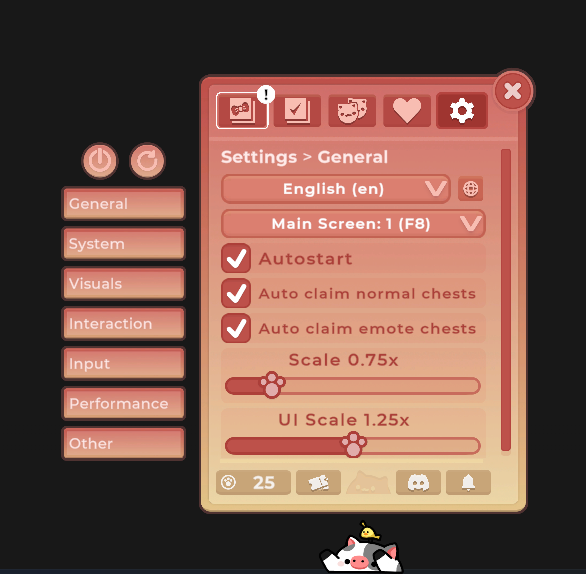
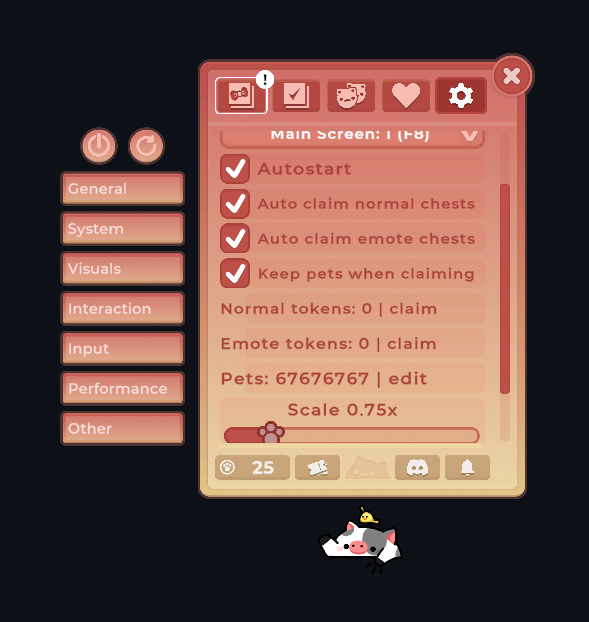
Refresh settings screenshot and step-by-step instructions

diff --git a/README.md b/README.md
@@ -1,72 +1,121 @@
 # BongoClaim ฅ
 
-**Auto-claim normal and emote chests, open stored chest tokens, and control your pet score in Bongo Cat.** Install the Windows helper once, then launch Bongo Cat normally through Steam.
+**Auto-claim normal and emote chests, open stored tokens, and control your pet score in Bongo Cat.** Install once, then play normally through Steam. BongoClaim does not need to stay open.
 
-[Download the portable ZIP](https://github.com/NH4OH-35/bongo-claim/releases/latest) · [Report a problem](https://github.com/NH4OH-35/bongo-claim/issues)
+[Download BongoClaim v1.2.0 for Windows](https://github.com/NH4OH-35/bongo-claim/releases/download/v1.2.0/BongoClaim-v1.2.0-windows.zip) · [All releases](https://github.com/NH4OH-35/bongo-claim/releases) · [Report a problem](https://github.com/NH4OH-35/bongo-claim/issues)
 
-![Bongo Cat Settings > General showing normal and emote auto-claim enabled](docs/game-settings.png)
+![BongoClaim v1.2 in Bongo Cat General settings: normal and emote auto-claim, Keep pets, token claim buttons, and pet score editor](docs/game-settings.png)
 
-The screenshot shows the v1.1 auto-claim switches. v1.2 adds stored-token buttons, **Keep pets when claiming**, and **Edit pet score** in the same General panel.
+The screenshot shows the current **v1.2** controls. Your token counts and pet score will differ. **Keep pets when claiming** is checked in this example; it starts **off** on a fresh installation.
 
-## Everyday use
+## 1. Install or upgrade
 
-**Already installed? Just start Bongo Cat normally from Steam.** All controls run inside the game; you can leave `BongoClaim.exe` closed. Keep Bongo Cat and Steam running. Normal and emote auto-claim use their existing timer. By default, claims still cost pets.
+**Already using v1.2 and seeing these controls? Skip to step 2.** This documentation update does not require reinstalling the game patch.
 
-Open the game menu with **Escape** or **M**, click the **gear**, then choose **General**. Check **Auto claim normal chests** or **Auto claim emote chests** to enable that type; uncheck it to pause. Each choice takes effect while playing and saves for the next launch. Both start enabled. A request already sent to the server can still finish after switching off.
+1. Download **BongoClaim-v1.2.0-windows.zip** using the link above. Do not download GitHub's **Source code** ZIP for installation.
+2. Right-click the downloaded ZIP → **Extract All…** → **Extract**. Open the extracted folder; do not run the app from inside the ZIP.
+3. Exit **Bongo Cat** normally. Leave Steam available for launching the game later.
+4. Double-click **BongoClaim.exe**. Keep **Mono.Cecil.dll** in the same folder. **BongoClaim.Cli.exe** is optional and is not needed for normal use.
+5. Check the game folder shown in BongoClaim. If it is empty or wrong, click **Browse…** and select the folder containing **BongoCat.exe**. Select the **folder**, not the EXE file, **BongoCat_Data**, or **Managed**. You can find it through Steam → Bongo Cat → **Properties → Installed Files → Browse**.
+6. The helper checks the build automatically. You can click **Check build** to check again. If the build is supported, click **Install auto claim →**. Existing v1.0/v1.1 installations show **Upgrade controls →** instead.
+7. Wait for the success message. The button changes to **Controls installed**. Close BongoClaim and launch **Bongo Cat from Steam**.
 
-For quick control with the game menu open, press **F7** for normal or **F9** for emote. **Shift + F9** also works for emote if plain F9 is intercepted or missed. Shortcuts work only while the game is focused and no text field is active. They update the same saved switches and checkmarks.
+The installer backs up your exact original game DLL before patching it. Upgrades use that verified original backup and preserve your saved normal/emote switch settings.
 
-Other menu shortcuts: **F5** toggles Keep pets, **F10** edits your pet score, **F11** opens one owned normal token, and **Insert** opens one owned emote token. Toggle and token shortcuts pause while you are editing a score.
+## 2. Open the controls
 
-### Stored tokens and manual claims
+1. Start Bongo Cat normally through Steam.
+2. Focus the game and press **Escape** or **M** to open its menu.
+3. Click the **gear** tab, then **General**.
+4. Scroll down inside the panel until you see the rows shown in the screenshot.
 
-In **Settings → General**, the **Normal tokens: N | claim** and **Emote tokens: N | claim** rows show quantities from your Steam inventory. Click a row to open **one** owned token of that type. After it finishes, click again for another. These buttons work during the local countdown and independently of the auto-claim switches.
+You only run BongoClaim again to install, upgrade, check compatibility, or restore the original game. Leave **Steam and Bongo Cat running** for auto-claim to work.
 
-Empty or loading rows cannot be clicked. The game must have the other exchange inputs it requires, sufficient pets unless **Keep pets** is enabled, and no pending request. Steam still decides whether the exchange succeeds. The buttons do not create tokens or change their server drop schedule. The game's normal successful or failed claim cooldown is retained.
+## 3. Turn automatic claims on or off
 
-### Keep pets when claiming
+1. Check **Auto claim normal chests** to enable automatic normal-chest claims; uncheck it to pause them.
+2. Check or uncheck **Auto claim emote chests** independently.
+3. Close the menu and continue playing. Your choices take effect immediately and save for the next launch.
 
-Enable **Keep pets when claiming** to open your normal and emote chests without deducting pets, including claims made through the original chest buttons. It starts **off** and saves separately from both auto-claim switches. Turning it off restores the normal pets price. Owned inventory tokens are consumed either way. A request already in progress uses the price choice captured when it started; gifting keeps its original spending rules.
+| Setting | Fresh-install default | Effect |
+| --- | --- | --- |
+| Auto claim normal chests | On | Claims an eligible normal chest when the game's timer is ready. |
+| Auto claim emote chests | On | Claims an eligible emote chest when the game's timer is ready. |
+| Keep pets when claiming | Off | When enabled, normal and emote chest claims do not deduct available pets. |
 
-### Edit available pet score
+Saved preferences take precedence over these defaults. A request already sent can finish after you disable its switch. Automatic claims use the game's existing timer and exchange requirements; claims cost pets while **Keep pets when claiming** is off.
 
-Click **Pets: N | edit** or press **F10** with the game menu open. Type the desired nonnegative whole number using the number row or numpad, then press **Enter** to save. **Backspace** deletes; **Escape** cancels. Clicking the editor again or closing the menu also cancels.
+## 4. Claim stored chest tokens
 
-This changes your **available pets** and saves through the game's Steam stats API. It preserves lifetime achievement taps and total pets previously spent. Values that would overflow the game's counter are rejected; the maximum is `2,147,483,646 − total spent`. Score editing does not grant inventory tokens or server eligibility. Restoring the game DLL removes these controls; it does not undo a score you explicitly saved.
+1. Open **gear → General** and find **Normal tokens: N | claim** or **Emote tokens: N | claim**.
+2. If the number is greater than **0**, click the row for the chest type you want.
+3. Wait for the game and Steam to finish that claim. Each successful claim consumes **one owned token**.
+4. Click again to open another token, if you still have one.
 
-## First-time installation
+These buttons can open stored tokens while the local 30-minute countdown is still running. They work independently of the auto-claim switches. A successful manual claim starts the game's normal cooldown again.
 
-1. Download `BongoClaim-v1.2.0-windows.zip` from Releases and **extract the whole ZIP**.
-2. Exit Bongo Cat normally.
-3. Open `BongoClaim.exe`. Keep `Mono.Cecil.dll` beside it.
-4. The app finds your running game or Steam library. If needed, browse to the folder containing `BongoCat.exe`.
-5. Click **Check build**, then **Install auto claim** (or **Upgrade controls** for v1.0/v1.1).
-6. Start Bongo Cat from Steam. The patch works inside the game; this helper does not need to stay open.
+**“0 | claim” means you currently have no owned tokens of that type to open.** The row is disabled. “Loading” means Steam inventory is not ready yet. The screenshot's zero counts are an example, not a target value.
 
-![BongoClaim desktop installer and restore controls](docs/desktop.png)
+Claims also require the game's other exchange inputs, enough pets unless **Keep pets** is enabled, and no pending request. Steam decides whether an exchange succeeds. These controls do not create tokens or change Steam's drop schedule; editing your pet score does not create tokens either.
 
-Changes to the saved switches do not require reinstalling or keeping BongoClaim open. Upgrades rebuild the patch from your verified original backup and retain that same original for restoration. Existing normal and emote preferences are preserved.
+## 5. Stop chest claims deducting pets
 
-Auto-claim calls the game's existing `ShopItem.Buy()` when a chest is ready. Manual stored-token claims also call `Buy()`, after checking owned inventory inputs and pending-request guards. The optional **Keep pets** switch changes the captured local price flag; the optional score editor changes only the available-pets counter through the game. No keyboard presses, Steam token grants or changes to the server drop schedule are generated.
+1. In **gear → General**, check **Keep pets when claiming**.
+2. Claim a normal or emote chest automatically, through a stored-token row, or through the game's original chest button.
 
-## Why the old DLL stopped being suitable
+Available pets are preserved while this switch is on. Uncheck it to restore the normal pet cost. The switch saves for the next launch. Owned tokens are still consumed, and gifts retain their original spending rules. An in-progress request uses the price choice from when it started.
 
-The archived [Bongo-Cat-Auto-Claim](https://github.com/zelda0079/Bongo-Cat-Auto-Claim) ships an entire older `Assembly-CSharp.dll`. The inspected July version inserted a purchase into a generated timer method. The current build has different timer code, an `OnChestReady()` method, and newer gameplay features. Dropping an old game DLL into that installation discards those newer changes.
+## 6. Edit your available pet score
 
-BongoClaim instead:
+1. Click **Pets: N | edit** in General, or press **F10** with the game menu open.
+2. Type the **full new score** using the number row or numpad. The editor starts empty; you do not need to erase the old score first. For example, type `100000` to set available pets to 100,000.
+3. Use **Backspace** to correct a digit.
+4. Press **Enter** to save, or **Escape** to cancel. Clicking the editor again or closing the menu also cancels.
 
-- Inspects the assembly actually installed on your computer.
-- Checks the expected chest, timer, inventory, price and purchase-lock structure.
-- Adds guarded claim logic, three saved switches and three native action rows.
-- Backs up your exact original bytes before installing.
-- Verifies the patched assembly by reading it back.
-- Refuses unsupported layouts or an existing conflicting auto-claim mod.
+Use a nonnegative whole number. If the row says **Invalid score; type again**, enter a smaller valid number. The maximum is `2,147,483,646 − total pets previously spent`.
 
-## Backup, restore and Steam updates
+Saving changes your available pets through the game's Steam stats API. Lifetime achievement taps and total pets previously spent are preserved. Restoring the original game DLL removes the controls but does not undo a score you saved.
 
-**Restore original** disables the patch and restores the original DLL byte-for-byte. Your game saves and inventory files are not touched.
+## Keyboard shortcuts
 
-Backups are kept inside the selected game folder:
+Focus Bongo Cat and keep its menu open. Shortcuts do not run while another text field is active. Toggle and token shortcuts pause during score editing.
+
+| Key | Action |
+| --- | --- |
+| **F5** | Toggle Keep pets when claiming |
+| **F7** | Toggle normal auto-claim |
+| **F9** | Toggle emote auto-claim |
+| **F10** | Start editing pet score |
+| **F11** | Claim one owned normal token |
+| **Insert** | Claim one owned emote token |
+
+During score editing, **Enter** saves, **Escape** cancels, and **Backspace** deletes a digit. If plain F9 is missed on your PC, **Shift + F9** reaches the same emote toggle. The shortcuts update the same saved controls as mouse clicks.
+
+## Troubleshooting
+
+| What you see | What to do |
+| --- | --- |
+| **Controls installed** in the helper | The patch is already installed. Start Bongo Cat from Steam; no second installation is needed. |
+| Missing rows in General | Scroll down. If you only have the two auto-claim switches, exit the game and use **Upgrade controls** in v1.2. |
+| **0** tokens or **loading** | Zero means no owned token is available. For loading, allow Steam inventory to finish loading with Steam running. |
+| Tokens exist but a claim does not start | Wait for any pending request. Check the game's exchange requirements and your pet balance, or enable **Keep pets**. |
+| Pets decreased during a claim | Check **Keep pets when claiming** before starting another claim. It defaults off; changing it does not alter a request already sent. |
+| Missing **Mono.Cecil.dll** or dependency error | Extract the whole release ZIP and keep its files together. |
+| Game is running during install or restore | Exit Bongo Cat normally, then try again. The helper will not force-close it. |
+| Unsupported build or a blocked file write | Read the reported error. The helper refuses incompatible layouts and does not change Windows security settings. Report the build ID and error text. |
+
+Requires **Windows 10 or 11**, **.NET Framework 4.8** (normally already installed), the Steam Windows version of Bongo Cat, and write access to its game folder. No administrator privileges are requested. Release binaries are unsigned. Keep antivirus protection enabled.
+
+## Restore the original game
+
+1. Exit Bongo Cat normally.
+2. Open **BongoClaim.exe** and check the selected game folder.
+3. Click **Restore original** and wait for success.
+4. Close the helper and start Bongo Cat through Steam.
+
+Restoration returns the original DLL byte-for-byte. Game saves and inventory files are not touched. A pet score you explicitly saved remains saved.
+
+Backups live inside the selected game folder:
 
 ```text
 .bongo-claim/
@@ -74,43 +123,31 @@ Backups are kept inside the selected game folder:
   backups/<original-sha256>.dll
 ```
 
-Backups are verified against their SHA-256 before use. If Steam updates your game, the tool refuses to restore an older backup over a changed game DLL. Recheck and reapply on a compatible new build; previous backups are retained. If an update changes the relevant code layout, BongoClaim refuses to patch it.
+The helper verifies backup hashes before using them. If Steam changes the installed DLL, the helper refuses to restore an older backup over it.
 
-If you previously installed the archived replacement DLL, use Steam **Properties → Installed Files → Verify integrity of game files** first. This gets the current original game files back. You can also use that Steam recovery path if your BongoClaim backup is missing or damaged.
+## After a Steam update or an older replacement DLL
 
-## Verified scope
+1. Exit Bongo Cat after Steam finishes the update.
+2. Open BongoClaim and click **Check build**.
+3. If the current build is supported and the patch is absent, install it again, then start the game through Steam. Previous backups are retained.
+4. If the layout is unsupported, wait for a compatible BongoClaim update and report your build ID.
 
-Initial compatibility was inspected against Steam build **25723683** on Windows, on 12 October 2026:
+If you previously installed the archived replacement DLL, or your original backup is missing or damaged, use Steam → Bongo Cat → **Properties → Installed Files → Verify integrity of game files** to recover the current official files before applying BongoClaim.
+
+## Compatibility and validation
+
+Compatibility and live checks were performed on **12 October 2026**, on Steam Windows build **25723683**:
 
 ```text
 Original Assembly-CSharp.dll SHA-256
[1 lines of base64/hex data omitted]
 ```
 
-The current original assembly and its Unity/runtime dependencies are inspected before installation, and the patched output is read back. Chest callbacks, Steam exchanges and cooldowns are retained; optional controls change the local price flag and available-pets stat. This is build compatibility evidence, not a promise about future updates or server behavior.
+**50 executable tests passed** using a source-owned simulated game assembly. They cover automatic and manual claims, independent switches, token quantities and consumption, claims during cooldown, missing inputs and pending requests, captured price choices, gift spending, score save/cancel/backspace/overflow, focus gates, upgrades, corrupted backups, Steam updates, rollback and exact restoration.
 
-Fifty executable tests use a source-owned simulated game assembly to cover claims, independent live switches, native actions, token counts and consumption, manual claims during cooldown, missing exchange inputs, pending requests, price choice captured per request, gift spending, score save/cancel/backspace/overflow, focus gates, v1/v2 upgrades, corrupted backups, Steam updates, unsupported layouts and exact restoration. No proprietary game files are needed to run those tests.
+Live checks verified normal and emote automatic claims in earlier versions. In v1.2, all six added rows rendered; a stored normal-token claim succeeded during countdown without reducing pets; an emote-token claim through Insert reached its successful cooldown during countdown; and score input followed by cancellation left the score unchanged. The final game log contained no runtime errors. **Live score saving and cosmetic identities were not recorded**; score saving and persistence are covered by the simulated-game tests. The supplied screenshot documents the current controls.
 
-**A live normal-chest smoke test passed on 12 October 2026.** After installing on build 25723683 and restarting through Steam, the normal ready-chest indicator disappeared and the normal 30-minute cooldown began without a manual claim click. The emote chest stayed ready in normal-only mode. The game's successful purchase callback starts that cooldown; its failed-request path instead retries after 60 seconds. No exceptions or runtime errors were found in the game log. The original backup matched its recorded SHA-256 exactly.
-
-The earlier check verified normal claiming in v1.0; it did not record the cosmetic's identity. Future builds or server behavior remain outside that check. Please report your build ID, toggle settings, and error text if a claim fails.
-
-**A live emote-chest smoke test passed for v1.1 on 12 October 2026.** Upgrading the same installation from its verified original backup enabled both chest types. After restarting through Steam, the previously ready emote indicator disappeared and its normal 30-minute cooldown began without a manual claim click. No runtime errors were found in the game log. The cosmetic's identity was not recorded.
-
-Live F7 and Shift + F9 checks changed the normal and emote saved settings independently from on to off and back to on through the new native controls. Both were left enabled. Plain F9 was missed by the automation tool on this PC; Shift + F9 reached the same emote handler. Automated mouse clicks were blocked by the game's transparent window, so checkbox clicks were verified in the behavioral fixture and the actual scene hierarchy was inspected separately.
-
-**Live v1.2 checks passed on the same build on 12 October 2026.** The General panel rendered all three switches and all three action rows, with real normal and emote token counts. F5 saved the Keep pets switch. A manual normal-token claim succeeded while its countdown was still running: its count decreased by one, the successful 30-minute cooldown restarted, and available pets stayed unchanged. A manual emote-token claim through Insert also reached the successful 30-minute cooldown while its previous countdown was still running. The F10 editor accepted a digit and Escape cancelled it without changing the score. The running game log contained no runtime errors after the final repairs.
-
-Live score saving and the cosmetic identities were not recorded. Score save/overflow/persistence logic and gift-cost isolation are covered by the behavioral tests. Future builds and server behavior remain outside these checks.
-
-## Requirements and troubleshooting
-
-- Windows 10 or 11 with .NET Framework 4.8 (normally already present).
-- The Steam Windows version of Bongo Cat, using the supported managed assembly layout.
-- Write access to your own game folder; no administrator privileges are requested.
-- A closed game during installation or restoration. The tool will not force-close it.
-
-If the game is installed in a protected folder or Windows blocks a write, the tool reports the failure rather than changing security settings. Keep antivirus protection enabled. A missing dependency error means the ZIP was not fully extracted. Release binaries are unsigned; source and build instructions are provided below.
+The installer inspects the current game assembly and runtime dependencies, then reads back the patched output. It refuses unsupported layouts and conflicting auto-claim mods. Future game builds and Steam server behavior remain outside these checks.
 
 ## Build from source
 
@@ -118,21 +155,16 @@ Run in PowerShell on Windows:
 
 ```powershell
 .\build.ps1 -Test
-```
-
-No .NET SDK or Visual Studio is required: the script uses the .NET Framework compiler already on Windows. The only downloaded build dependency is the pinned, hash-verified Mono.Cecil NuGet package. Outputs go in `artifacts/`, and dependencies in `tools/`; neither is tracked.
-
-Package the distributable:
-
-```powershell
 .\package.ps1
 ```
 
-The ZIP allowlist includes the desktop app, CLI, Mono.Cecil, instructions and licenses. No game assembly, test fixture, backup, save file or account data is packaged.
+No .NET SDK or Visual Studio is required. The build uses the Windows .NET Framework compiler and a pinned, hash-verified Mono.Cecil NuGet package. Outputs go in `artifacts/`; dependencies go in `tools/`. Neither directory is tracked.
+
+The release ZIP contains **BongoClaim.exe**, **BongoClaim.Cli.exe**, **Mono.Cecil.dll**, this README, **docs/game-settings.png**, and the licenses. The screenshot is included so it displays in the extracted instructions. No game DLL, test fixture, backup, save, or account data is packaged. The adjacent `.zip.sha256` file contains the expected SHA-256 hash for checking the ZIP.
 
 ## Command line
 
-For diagnostics and scripted use, `BongoClaim.Cli.exe` offers:
+For diagnostics and scripted use:
 
 ```powershell
 .\BongoClaim.Cli.exe --inspect 'G:\SteamLibrary\steamapps\common\BongoCat'
@@ -141,19 +173,19 @@ For diagnostics and scripted use, `BongoClaim.Cli.exe` offers:
 .\BongoClaim.Cli.exe --patch-copy 'path\Assembly-CSharp.dll' "$env:TEMP\patched-copy.dll"
 ```
 
-Both chest types default to enabled. `--normal-only` makes the initial emote default off; a saved in-game toggle takes precedence. `--emotes` remains accepted for compatibility with v1.0. Change the switches in the game after installation. `--verbose` includes a diagnostic stack trace. `--patch-copy` refuses to overwrite the source or an existing output.
+Both chest types default on. `--normal-only` makes the initial emote default off; a saved in-game preference takes precedence. `--emotes` remains accepted for compatibility with v1.0. `--verbose` includes a diagnostic stack trace. `--patch-copy` refuses to overwrite its source or an existing output.
 
 ## How the patch works
 
-`PatchEngine.cs` adds a private helper to `BongoCat.Shop`. It reads the corresponding saved PlayerPrefs switch on each attempt, then checks `ChestIsReady`, `_openingChest`, the shop-item reference and `CanBuy()` before invoking the original `Buy()`. The game's own `StartBuy()` keeps its pets and pending-server checks intact.
+The archived [Bongo-Cat-Auto-Claim](https://github.com/zelda0079/Bongo-Cat-Auto-Claim) distributes an older complete game DLL. BongoClaim patches the assembly actually installed on your PC, checks the expected structure, and retains your exact original for restoration.
 
-The helper runs at the beginning of `OnChestReady()` and the game's existing timer state machine. The timer hook allows a later retry even when a popup is already shown. The game's timer interval, failed-request cooldown and purchase callbacks are preserved.
+`PatchEngine.cs` inserts a guarded claim helper into the game's chest-ready callback and timer. It reads saved normal/emote switches and checks readiness and purchase locks before calling the original `ShopItem.Buy()`. The game's timer interval, purchase callbacks and failed-request cooldown are retained.
 
-`NativeControlsPatch.cs` adds native settings controls with separate keys and callbacks. Their saved values are read directly by the claim helper, so toggling does not change the installed DLL or its backup fingerprint.
+`NativeControlsPatch.cs` adds three saved switches and three native action rows. `OwnedTokensPatch.cs` binds source-owned feature methods from an embedded compile-time template to the installed game's Unity and Steam APIs. Only new feature members are copied; no stub types or template dependency are installed.
 
-`OwnedTokensPatch.cs` rebinds source-owned feature methods from an embedded compile-time template to the game's own Unity and Steam APIs. Only the new feature members are copied; no stub types or template dependency are installed. `RuntimeFeatures.cs` implements token actions and the inline score editor. Normal tokens use `Chest_Token`; emote tokens use `Emote_Chest_Token`. Their quantities are read from `ItemData.GetTotalQuantity()`, and manual opens check the original full exchange requirements before entering the existing purchase path.
+`RuntimeFeatures.cs` reads the real normal and emote inventory quantities, checks the full exchange requirements before manual purchases, and implements the inline score editor. Keep pets changes the captured local price flag for chest purchases. No game or Steam assembly is shipped.
 
-No game or Steam assembly is shipped. Development inspection used [REA](https://github.com/morluto/rea) and [Mono.Cecil](https://github.com/jbevain/cecil). See [third-party notices](THIRD-PARTY-NOTICES.md).
+Development inspection used [REA](https://github.com/morluto/rea) and [Mono.Cecil](https://github.com/jbevain/cecil). See [third-party notices](THIRD-PARTY-NOTICES.md).
 
 ## License
 
